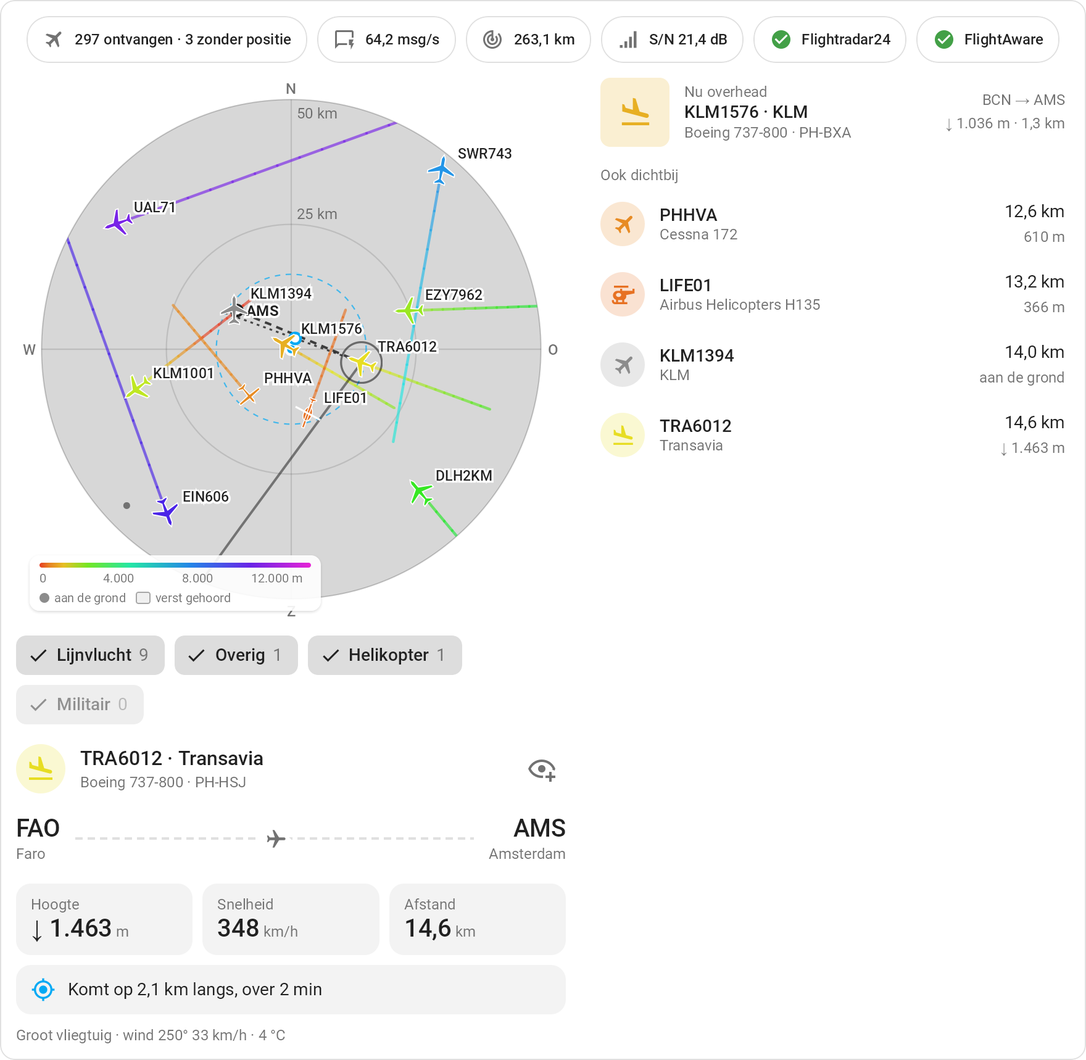
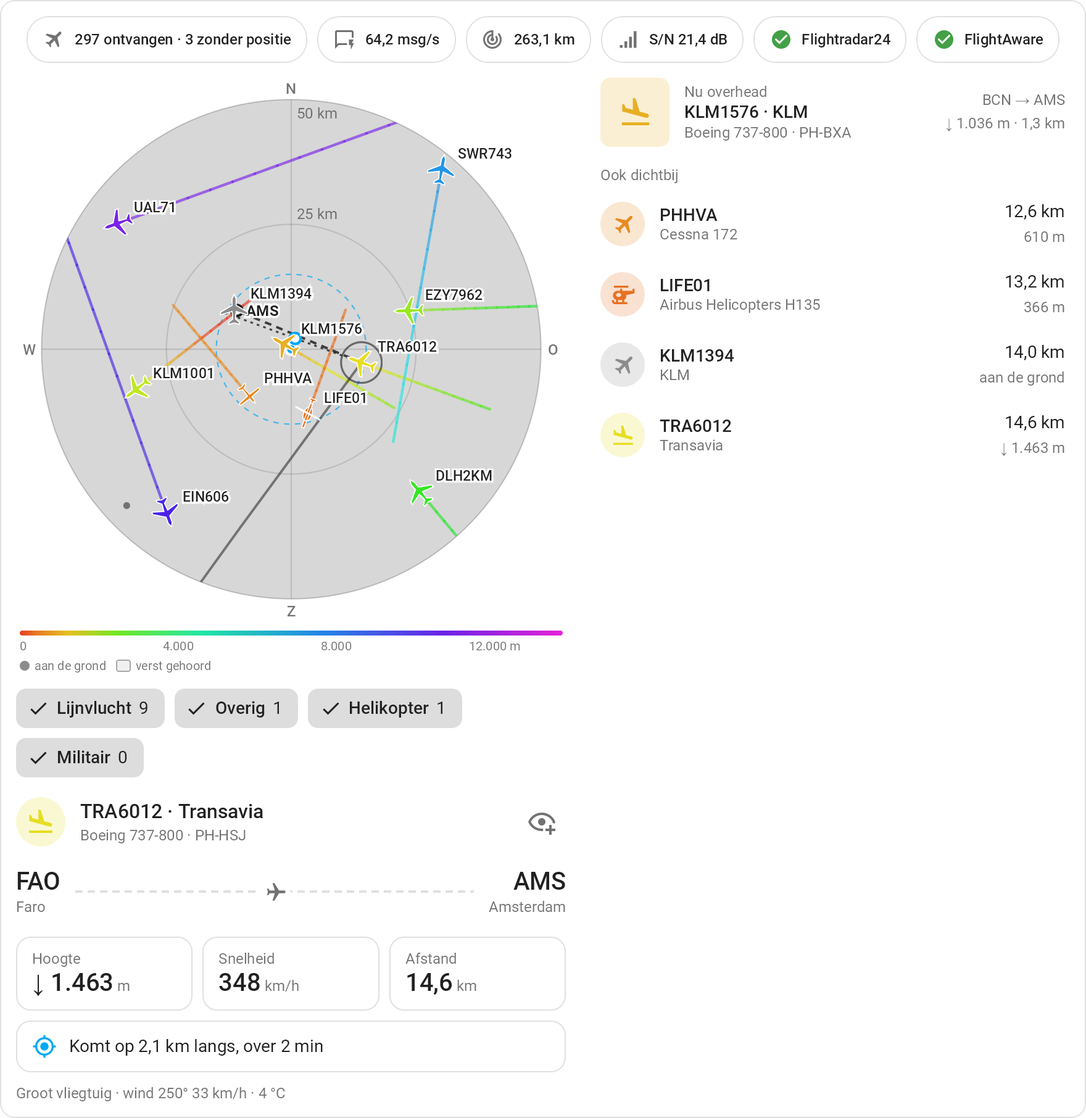
Finish the cards: contrast, the key on the radar, the passage window, the editor (#161)

diff --git a/custom_components/adsb_station/frontend/adsb-station-card.js b/custom_components/adsb_station/frontend/adsb-station-card.js
@@ -65,6 +65,8 @@ const STRINGS = {
     radio_failure: "Emergency: radio failure",
     downed: "Emergency: downed",
     title: "Title",
+    section_map: "Radar and map",
+    section_below: "Aircraft and station",
     map: "Map",
     map_radar: "Radar",
     map_streets: "Map with streets",
@@ -158,6 +160,8 @@ const STRINGS = {
     radio_failure: "Noodgeval: radiostoring",
     downed: "Noodgeval: neergestort",
     title: "Titel",
+    section_map: "Radar en kaart",
+    section_below: "Toestellen en station",
     map: "Kaart",
     map_radar: "Radar",
     map_streets: "Landkaart",
@@ -765,39 +769,56 @@ class AdsbStationCard extends HTMLElement {
             },
           },
         },
+        // Grouped as Home Assistant's own editors group theirs, folded away.
         {
-          name: "map_scale",
-          selector: {
-            select: {
-              mode: "dropdown",
-              options: SCALES.map((value) => ({ value, label: text[`scale_${value}`] })),
+          type: "expandable",
+          name: "section_map",
+          icon: "mdi:radar",
+          flatten: true,
+          schema: [
+            {
+              name: "map_scale",
+              selector: {
+                select: {
+                  mode: "dropdown",
+                  options: SCALES.map((value) => ({ value, label: text[`scale_${value}`] })),
+                },
+              },
             },
-          },
-        },
-        {
-          name: "map_range",
-          selector: { number: { min: 5, max: 700, mode: "box" } },
-        },
-        {
-          name: "max_altitude",
-          selector: { number: { min: 100, max: 60000, step: 100, mode: "box" } },
-        },
-        {
-          name: "palette",
-          selector: {
-            select: {
-              mode: "dropdown",
-              options: PALETTES.map((value) => ({ value, label: text[`palette_${value}`] })),
+            {
+              name: "map_range",
+              selector: { number: { min: 5, max: 700, mode: "box" } },
             },
-          },
+            {
+              name: "max_altitude",
+              selector: { number: { min: 100, max: 60000, step: 100, mode: "box" } },
+            },
+            {
+              name: "palette",
+              selector: {
+                select: {
+                  mode: "dropdown",
+                  options: PALETTES.map((value) => ({ value, label: text[`palette_${value}`] })),
+                },
+              },
+            },
+            { name: "show_airports", selector: { boolean: {} } },
+          ],
         },
-        { name: "show_airports", selector: { boolean: {} } },
-        { name: "show_nearby", selector: { boolean: {} } },
         {
-          name: "max_nearby",
-          selector: { number: { min: 1, max: 20, mode: "box" } },
+          type: "expandable",
+          name: "section_below",
+          icon: "mdi:airplane",
+          flatten: true,
+          schema: [
+            { name: "show_nearby", selector: { boolean: {} } },
+            {
+              name: "max_nearby",
+              selector: { number: { min: 1, max: 20, mode: "box" } },
+            },
+            { name: "show_status", selector: { boolean: {} } },
+          ],
         },
-        { name: "show_status", selector: { boolean: {} } },
       ],
       computeLabel: (schema) => {
         const text = strings(window.__adsbStationHass);
@@ -1112,7 +1133,7 @@ class AdsbStationCard extends HTMLElement {
       ...[
         el(
           "div",
-          { class: "scope-box" },
+          { class: streets ? "scope-box on-map" : "scope-box" },
           this._radar(text, streets),
           this._legend(text),
           streets ? this._attribution() : null,
@@ -1707,7 +1728,7 @@ class AdsbStationCard extends HTMLElement {
         return el(
           "button",
           {
-            class: count ? "kind" : "kind none",
+            class: "kind",
             "aria-pressed": String(shown),
             onclick: () => {
               if (!this._hidden.delete(kind)) this._hidden.add(kind);
@@ -2356,7 +2377,11 @@ class AdsbStationCard extends HTMLElement {
           "div",
           { class: "passage-head" },
           el("div", { class: "primary", id: "passage-name" }, p.flight || p.hex, p.airline ? ` · ${p.airline}` : ""),
-          el("button", { class: "close", "aria-label": text.close, onclick: () => this._dialog.close() }, "×"),
+          el(
+            "button",
+            { class: "close", "aria-label": text.close, title: text.close, onclick: () => this._dialog.close() },
+            el("ha-icon", { icon: "mdi:close" }),
+          ),
         ),
         photo,
         el(
@@ -2732,12 +2757,10 @@ const STYLE = css`
     border-color: transparent;
     background: rgba(var(--rgb-primary-text-color, 33, 33, 33), 0.15);
   }
+  /* The count lighter by weight, not by colour: grey on the tint, or a
+     button at half strength, falls short of the contrast text needs. */
   .kind .count {
     font-weight: var(--ha-font-weight-normal, 400);
-    color: var(--secondary-text-color);
-  }
-  .kind.none {
-    opacity: 0.5;
   }
   .legend {
     position: absolute;
@@ -2758,6 +2781,20 @@ const STYLE = css`
     margin-top: 2px;
   }
   .legend .keys:empty {
+    display: none;
+  }
+  /* On the radar the key goes under the scope, which it would cover; on a
+     map it sits in the corner. */
+  .scope-box:not(.on-map) .legend {
+    position: static;
+    width: auto;
+    margin-top: var(--ha-space-2, 8px);
+    padding: 0;
+    background: none;
+    box-shadow: none;
+  }
+  /* On a phone only the ends of the scale: feet need more room than there is. */
+  .narrow .legend .ticks span:not(:first-child):not(:last-child) {
     display: none;
   }
   .legend .key {
@@ -2895,10 +2932,12 @@ const STYLE = css`
     gap: var(--ha-space-2, 8px);
     margin-top: var(--ha-space-4, 16px);
   }
+  /* Outlined, as Home Assistant's badges: grey text on a grey fill falls
+     short of the contrast text needs in a light theme. */
   .picked .stat,
   .picked .tip {
     border-radius: var(--ha-border-radius-lg, 12px);
-    background: rgba(var(--rgb-primary-text-color, 33, 33, 33), 0.05);
+    border: 1px solid var(--divider-color);
   }
   .picked .stat {
     padding: 10px var(--ha-space-3, 12px);
@@ -3184,14 +3223,26 @@ const STYLE = css`
     gap: 8px;
     margin-bottom: 8px;
   }
+  .passage-head .primary {
+    font-size: var(--ha-font-size-l, 16px);
+  }
+  /* Home Assistant's icon button: a round 40 pixels with the icon in it. */
   .passage .close {
+    flex: none;
+    display: grid;
+    place-items: center;
+    width: 40px;
+    height: 40px;
+    margin-inline-end: -8px;
     border: none;
+    border-radius: 50%;
     background: none;
     color: var(--secondary-text-color);
-    font-size: 1.6em;
-    line-height: 1;
-    padding: 4px 8px;
     cursor: pointer;
+    --mdc-icon-size: 24px;
+  }
+  .passage .close:hover {
+    background: rgba(var(--rgb-primary-text-color, 33, 33, 33), 0.08);
   }
   .passage-photo:empty {
     display: none;
@@ -3226,8 +3277,9 @@ const STYLE = css`
   .passage dl {
     display: grid;
     grid-template-columns: auto 1fr;
-    gap: 4px 16px;
-    margin: 12px 0 0;
+    gap: var(--ha-space-1, 4px) var(--ha-space-4, 16px);
+    margin: var(--ha-space-3, 12px) 0 0;
+    font-size: var(--ha-font-size-m, 14px);
   }
   .passage dt {
     color: var(--secondary-text-color);
@@ -3331,7 +3383,12 @@ class AdsbStationTableCard extends AdsbStationCard {
     };
     return {
       ...form,
-      schema: [...form.schema.filter((field) => ["device_id", "title", "palette"].includes(field.name)), list],
+      schema: [
+        ...form.schema
+          .flatMap((field) => field.schema || [field])
+          .filter((field) => ["device_id", "title", "palette"].includes(field.name)),
+        list,
+      ],
     };
   }
 

diff --git a/docs/nl/dashboards.md b/docs/nl/dashboards.md
@@ -41,7 +41,7 @@ Het deel **Vlucht overhead** is het toestel nu boven je, of het laatste, als zod
 
 De radar tekent elk toestel waarvan het station een positie heeft, niet alleen die dichtbij: elk als de omtrek van wat het is, een verkeersvliegtuig, een klein vliegtuig of een helikopter, gedraaid in de richting waarin het vliegt, in de kleur van zijn hoogte, met het spoor van de laatste vijf minuten erachter. Tussen twee uitlezingen vliegt elk toestel door langs zijn koers en met zijn snelheid, zodat de radar elke seconde beweegt zonder dat het station vaker wordt uitgelezen; de volgende uitlezing zet het terug waar het echt is. Laag is warm en hoog is koel, zodat een nadering in één oogopslag te onderscheiden is van een overvlucht; de legenda in de hoek van de radar zegt welke kleur welke hoogte is. Rood- en groenblinde ogen zien een deel van die hoogtes als één kleur; met `palette: colorblind` lopen ze in plaats daarvan van geel naar blauw. De gestippelde ring is de straal "dichtbij", en de grijze vorm is het verste dat het station ooit een toestel hoorde in elk van de acht windrichtingen: de vorm van wat je antenne kan zien, met een deuk waar een dak, een boom of een heuvel in de weg zit. Hij groeit mee met nieuwe records. Met readsb is de vorm die van de decoder zelf: de verste positie in elke graad over de laatste 24 uur, elke vijf minuten gelezen uit zijn `outline.json`, zodat een deuk precies laat zien waar hij zit. Omdat het om een dag gaat, krimpt hij op een rustige dag; de legenda zegt welke vorm je ziet. Tik op een toestel voor type, registratie, hoogte, snelheid en afstand, en, als de decoder ze doorgeeft, de klasse, het machgetal of de snelheid door de lucht, en de wind en temperatuur op zijn hoogte. Met [foto's](photos.md) aan wordt zijn foto opgezocht als je erop tikt en klein getoond in plaats van zijn icoon, met de fotograaf erbij en doorlinkend naar zijn pagina; tik op zijn naam voor de foto groot. Met een toetsenbord ga je met Tab van toestel naar toestel en kies je er een met Enter of spatie, zoals overal op de kaarten waar een tik iets doet; een schermlezer noemt elk toestel bij zijn callsign. Een toestel in nood heeft een rode ring, een van je [watchlist](watchlist.md) een ring in de accentkleur van je thema, en als je erop tikt staat erbij welke; een toestel dat er niet op staat heeft een knop **Op watchlist zetten**, die zijn registratie, of zonder registratie zijn hexcode, op de lijst zet; de tabelkaart markeert hun rijen op dezelfde manier. De luchthavens met lijnvluchten zijn kleine grijze stipjes met hun code, zodat je ziet waar de toestellen landen en opstijgen, elke code weggelaten waar hij een toestel of zijn roepnaam zou afdekken; reikt de radar verder dan 200 km, dan alleen de grote, en `show_airports: false` laat ze weg. Een aangetikt toestel in de lucht krijgt een stippellijn van vijf minuten vooruit langs zijn koers, en zolang het [jouw kant op komt](passages.md#voordat-het-er-is) een punt op die lijn waar het het dichtst langs komt, met hoe dichtbij en over hoe lang; het is een rechte lijn, dus een bocht klopt pas weer na de volgende uitlezing. Met [routes](routes.md) aan wordt ook zijn route getekend, langs de boog die een verkeersvliegtuig echt vliegt: doorgetrokken van waar het opsteeg tot waar het nu is, gestippeld door naar waar het landt. Voor een toestel buiten de straal "dichtbij" wordt de route opgezocht als je erop tikt, en dat kan tot dertig seconden duren; zolang dat loopt, staat dat op de kaart, en daarna of er geen route bekend is of het opzoeken mislukte. Tik na een mislukte poging twee keer op het toestel om het opnieuw te vragen: één keer om het los te laten, één keer om het weer te kiezen.
 
-De radar wordt door de kaart zelf getekend, dus hij heeft niets van buiten je netwerk nodig: geen kaarttegels, geen account. De buitenste ring past zich aan het verste toestel aan. Met `map_scale: coverage` telt hij ook de bereikrecords mee, zodat de hele vorm in beeld blijft, ten koste van kleinere toestellen rond het station; met `map_scale: fixed` blijft hij op `map_range` staan, zodat het beeld nooit verspringt. De toestellen bereiken de kaart via een abonnement zolang hij open is, en niets ervan wordt in de database geschreven. De integratie houdt de laatste vijf minuten van elk spoor in het geheugen bij, zodat een kaart die opengaat ze meteen tekent; een herstart van Home Assistant begint ze opnieuw. Een spoor gaat mee met zijn toestel: zodra het station er geen positie meer van heeft, verdwijnen ze allebei van de radar. Onder de radar zegt een knop per soort, lijnvlucht, overig, helikopter en militair zoals de verkeerstellers ze tellen, hoeveel er zijn; tik er een aan om die soort van de radar te halen, en nog eens om hem terug te zetten; een soort op de radar heeft een vinkje, een weggehaalde alleen een rand, zoals de filterknoppen van Home Assistant zelf, en een soort waarvan er nu geen zijn is gedimd. De badge van de ontvangen vliegtuigen bovenaan zet erbij hoeveel er **zonder positie** zijn, als die er zijn: wat wel ontvangen is maar niet getekend kan worden, toestellen die alleen via Mode S gehoord zijn en posities verder weg dan de zichtlijn toelaat, die de integratie als verkeerd gedecodeerd weglaat. De soorten en die samen tellen op tot de ontvangen vliegtuigen, tenzij `max_altitude` er een paar weglaat. Dat geldt tot de pagina opnieuw laadt; om iets vast weg te laten, stel je `max_altitude` in.
+De radar wordt door de kaart zelf getekend, dus hij heeft niets van buiten je netwerk nodig: geen kaarttegels, geen account. De buitenste ring past zich aan het verste toestel aan. Met `map_scale: coverage` telt hij ook de bereikrecords mee, zodat de hele vorm in beeld blijft, ten koste van kleinere toestellen rond het station; met `map_scale: fixed` blijft hij op `map_range` staan, zodat het beeld nooit verspringt. De toestellen bereiken de kaart via een abonnement zolang hij open is, en niets ervan wordt in de database geschreven. De integratie houdt de laatste vijf minuten van elk spoor in het geheugen bij, zodat een kaart die opengaat ze meteen tekent; een herstart van Home Assistant begint ze opnieuw. Een spoor gaat mee met zijn toestel: zodra het station er geen positie meer van heeft, verdwijnen ze allebei van de radar. Onder de radar zegt een knop per soort, lijnvlucht, overig, helikopter en militair zoals de verkeerstellers ze tellen, hoeveel er zijn; tik er een aan om die soort van de radar te halen, en nog eens om hem terug te zetten; een soort op de radar heeft een vinkje, een weggehaalde alleen een rand, zoals de filterknoppen van Home Assistant zelf. De badge van de ontvangen vliegtuigen bovenaan zet erbij hoeveel er **zonder positie** zijn, als die er zijn: wat wel ontvangen is maar niet getekend kan worden, toestellen die alleen via Mode S gehoord zijn en posities verder weg dan de zichtlijn toelaat, die de integratie als verkeerd gedecodeerd weglaat. De soorten en die samen tellen op tot de ontvangen vliegtuigen, tenzij `max_altitude` er een paar weglaat. Dat geldt tot de pagina opnieuw laadt; om iets vast weg te laten, stel je `max_altitude` in.
 
 Met `map: map` wordt dezelfde lucht op een kaart getekend: de silhouetten, de labels, de sporen en de dekkingsvorm, alles wat de radar tekent, alleen op een kaart in plaats van het radarscherm. De zoom volgt `map_scale`, net als bij de radar. De kaart wordt getekend uit de gegevens van OpenStreetMap, die Home Assistant sinds 2026.9 zelf doorgeeft, dezelfde waar zijn eigen kaart uit getekend wordt. De kaart tekent alleen wat helpt om een toestel te plaatsen: water, grenzen, hoofdwegen en de grotere plaatsen, in de kleuren van je thema, licht of donker, zodat de toestellen eruit springen. Een plaatsnaam valt nooit over een toestel, zijn roepnaam of de afstand bij een ring. Een oudere Home Assistant geeft die gegevens niet door; dan toont de kaart de gewone kaart van OpenStreetMap, rechtstreeks van OpenStreetMap, omgekeerd bij een donker thema. Anders dan de radar haalt dit wel iets van buiten je netwerk: de kaart van de omgeving van je station.
 
@@ -50,6 +50,26 @@ Met `map: map` wordt dezelfde lucht op een kaart getekend: de silhouetten, de la
 Bovenaan de kaart, als de eigen badges van Home Assistant: vliegtuigen ontvangen, berichten per seconde, het maximale bereik en S/N, hoe ver het signaal boven de ruis uitkomt; dat is het cijfer om op te letten na het wijzigen van de gain of de antenne. Klik op een ervan voor de entiteit erachter. Een badge per netwerk zegt of de feed in orde is, met een vinkje, een waarschuwing of een kruis. Op een telefoon scrolt de rij zijwaarts in plaats van drie regels te nemen.
 
 Plane Finder geeft zelf geen feedstatus, dus die heeft geen badge in plaats van een badge die niets betekent.
+
+De cijfers kunnen ook los staan, als de badges bovenaan het dashboard die Home Assistant zelf heeft, met de kaart eronder zonder die van zichzelf: één rij voor de hele weergave, die op een telefoon afbreekt in plaats van te scrollen. Voeg ze toe met **Badge toevoegen** in de dashboard-editor, of in YAML. De entiteit-ID's hier zijn voorbeelden: die van jou volgen de naam van je station en de taal die Home Assistant had toen het werd toegevoegd.
+
+```yaml
+badges:
+  - type: entity
+    entity: sensor.your_station_aircraft_received
+  - type: entity
+    entity: sensor.your_station_message_rate
+  - type: entity
+    entity: sensor.your_station_maximum_range
+  - type: entity
+    entity: sensor.your_station_signal_to_noise_ratio
+  - type: entity
+    entity: binary_sensor.your_station_feed
+sections:
+  - cards:
+      - type: custom:adsb-station-card
+        show_status: false
+```
 
 ## De tabelkaart
 

diff --git a/docs/en/dashboards.md b/docs/en/dashboards.md
@@ -41,7 +41,7 @@ The **Overhead flight** part is the aircraft above you now, or the last one, mar
 
 The radar draws every aircraft the station has a position for, not only the ones nearby: each as the outline of what it is, an airliner, a light aircraft or a helicopter, turned the way it flies, in the colour of its height, with the trail of the last five minutes behind it. Between two reads each aircraft flies on along its track at its speed, so the radar moves every second without reading the station any more often; the next read puts it back where it really is. Low is warm and high is cool, so an approach stands out from an overflight at a glance; the key in the corner of the radar says which colour is which height. Red and green blind eyes see some of those heights as one colour; with `palette: colorblind` they run from yellow to blue instead. The dashed ring is the nearby radius, and the shaded shape is the furthest the station has ever heard an aircraft in each of the eight compass directions: the shape of what your antenna can see, with a dent wherever a roof, a tree or a hill is in the way. It fills out as records are set. With readsb the shape is the decoder's own instead: the furthest position in every degree over the last 24 hours, read every five minutes from its `outline.json`, so a dent shows exactly where it is. Being a day, it shrinks on a quiet one; the legend says which shape you see. Tap an aircraft for its type, registration, height, speed and distance, and, where the decoder passes them on, its class, its Mach number or airspeed, and the wind and temperature at its height. With [photos](photos.md) switched on, its photo is asked for when you tap it and shown small in place of its icon, credited and leading to its page; tap its name for the photo large. With a keyboard, Tab goes from aircraft to aircraft and Enter or Space picks one, as anywhere on the cards where a tap does something; a screen reader names each one by its callsign. An aircraft in distress has a red ring, one on your [watchlist](watchlist.md) a ring in your theme's accent colour, and tapping it says which; one that is not on it has an **Add to watchlist** button, which puts its registration, or its hex code without one, on the list; the table card marks their rows the same way. The airports with scheduled flights are small grey dots with their code, so you see where the aircraft land and take off, each code left off where it would cover an aircraft or its callsign; with the radar reaching further than 200 km only the large ones, and `show_airports: false` leaves them off. A tapped aircraft in the air gets a dotted line five minutes ahead along its track, and while it is [coming your way](passages.md#before-it-gets-here) a point on that line where it passes closest, with how close and how long until then; it is a straight line, so a turn puts it out until the next read. With [routes](routes.md) switched on, its route is drawn as well, along the curve an airliner actually flies: solid from where it took off to where it is now, dashed on to where it lands. For an aircraft outside the nearby radius the route is looked up when you tap it, which can take up to thirty seconds; the card says so while it waits, and afterwards whether no route is known or the lookup failed. After a failed lookup, tap the aircraft twice to ask again: once to let go of it, once to pick it again.
 
-The radar is drawn by the card itself, so it needs nothing from outside your network: no map tiles, no account. Its outer ring snaps to the furthest aircraft. With `map_scale: coverage` it takes the range records into account too, so the whole shape stays in view at the cost of smaller aircraft near the station; with `map_scale: fixed` it stays at `map_range`, so the picture never shifts. The aircraft reach the card over a subscription while it is open, and nothing of them is written to the database. The integration keeps the last five minutes of every trail in memory, so a card that opens draws them straight away; a restart of Home Assistant starts them over. A trail goes with its aircraft: once the station no longer has a position for it, both leave the radar. Under the radar a button per kind, airline, other, helicopter and military as the traffic counters count them, says how many there are; tap one to take that kind off the radar, and again to bring it back; a kind on the radar has a tick, one taken off only an outline, as Home Assistant's own filter buttons, and one with none at the moment is dimmed. The badge of the aircraft received on top adds how many have **no position**, when there are any: what is received but cannot be drawn, aircraft heard over Mode S alone and positions further away than line of sight allows, which the integration drops as mis-decoded. The kinds and those add up to the aircraft received, unless `max_altitude` leaves some out. That lasts until the page reloads; to leave something out for good, set `max_altitude`.
+The radar is drawn by the card itself, so it needs nothing from outside your network: no map tiles, no account. Its outer ring snaps to the furthest aircraft. With `map_scale: coverage` it takes the range records into account too, so the whole shape stays in view at the cost of smaller aircraft near the station; with `map_scale: fixed` it stays at `map_range`, so the picture never shifts. The aircraft reach the card over a subscription while it is open, and nothing of them is written to the database. The integration keeps the last five minutes of every trail in memory, so a card that opens draws them straight away; a restart of Home Assistant starts them over. A trail goes with its aircraft: once the station no longer has a position for it, both leave the radar. Under the radar a button per kind, airline, other, helicopter and military as the traffic counters count them, says how many there are; tap one to take that kind off the radar, and again to bring it back; a kind on the radar has a tick, one taken off only an outline, as Home Assistant's own filter buttons. The badge of the aircraft received on top adds how many have **no position**, when there are any: what is received but cannot be drawn, aircraft heard over Mode S alone and positions further away than line of sight allows, which the integration drops as mis-decoded. The kinds and those add up to the aircraft received, unless `max_altitude` leaves some out. That lasts until the page reloads; to leave something out for good, set `max_altitude`.
 
 With `map: map` the same sky is drawn on a map under it: the outlines, the labels, the trails and the coverage, everything the radar draws, just on a map instead of the scope. Its zoom follows `map_scale` like the radar's. The map is drawn from OpenStreetMap's data, which Home Assistant serves itself since 2026.9, the same data its own map is drawn from. The card draws only what helps place an aircraft: water, borders, main roads and the larger places, in your theme's colours, light or dark, so the aircraft are what stands out. A place name never covers an aircraft, its callsign or the distance of a ring. An older Home Assistant does not serve that data; the card then shows OpenStreetMap's own map instead, straight from OpenStreetMap, inverted for a dark theme. Unlike the radar, this does fetch something from outside your network: the map of the area around your station.
 
@@ -50,6 +50,26 @@ With `map: map` the same sky is drawn on a map under it: the outlines, the label
 On top of the card, as Home Assistant's own badges: aircraft received, messages per second, the maximum range, and S/N, how far the signal stands above the noise, which is the figure to watch after changing the gain or the antenna. Click any of them for the entity behind it. A badge per network says whether the feed is fine, with a tick, a warning or a cross. On a phone the row scrolls sideways rather than taking three lines.
 
 Plane Finder reports no feed status of its own, so it has no badge rather than one that means nothing.
+
+The figures can also stand on their own, as the badges on top of the dashboard that Home Assistant has itself, with the card under them without its own: one row for the whole view, which on a phone wraps rather than scrolls. Add them with **Add badge** in the dashboard editor, or in YAML. The entity IDs here are examples: yours follow the name of your station and the language Home Assistant had when it was added.
+
+```yaml
+badges:
+  - type: entity
+    entity: sensor.your_station_aircraft_received
+  - type: entity
+    entity: sensor.your_station_message_rate
+  - type: entity
+    entity: sensor.your_station_maximum_range
+  - type: entity
+    entity: sensor.your_station_signal_to_noise_ratio
+  - type: entity
+    entity: binary_sensor.your_station_feed
+sections:
+  - cards:
+      - type: custom:adsb-station-card
+        show_status: false
+```
 
 ## The table card
 
